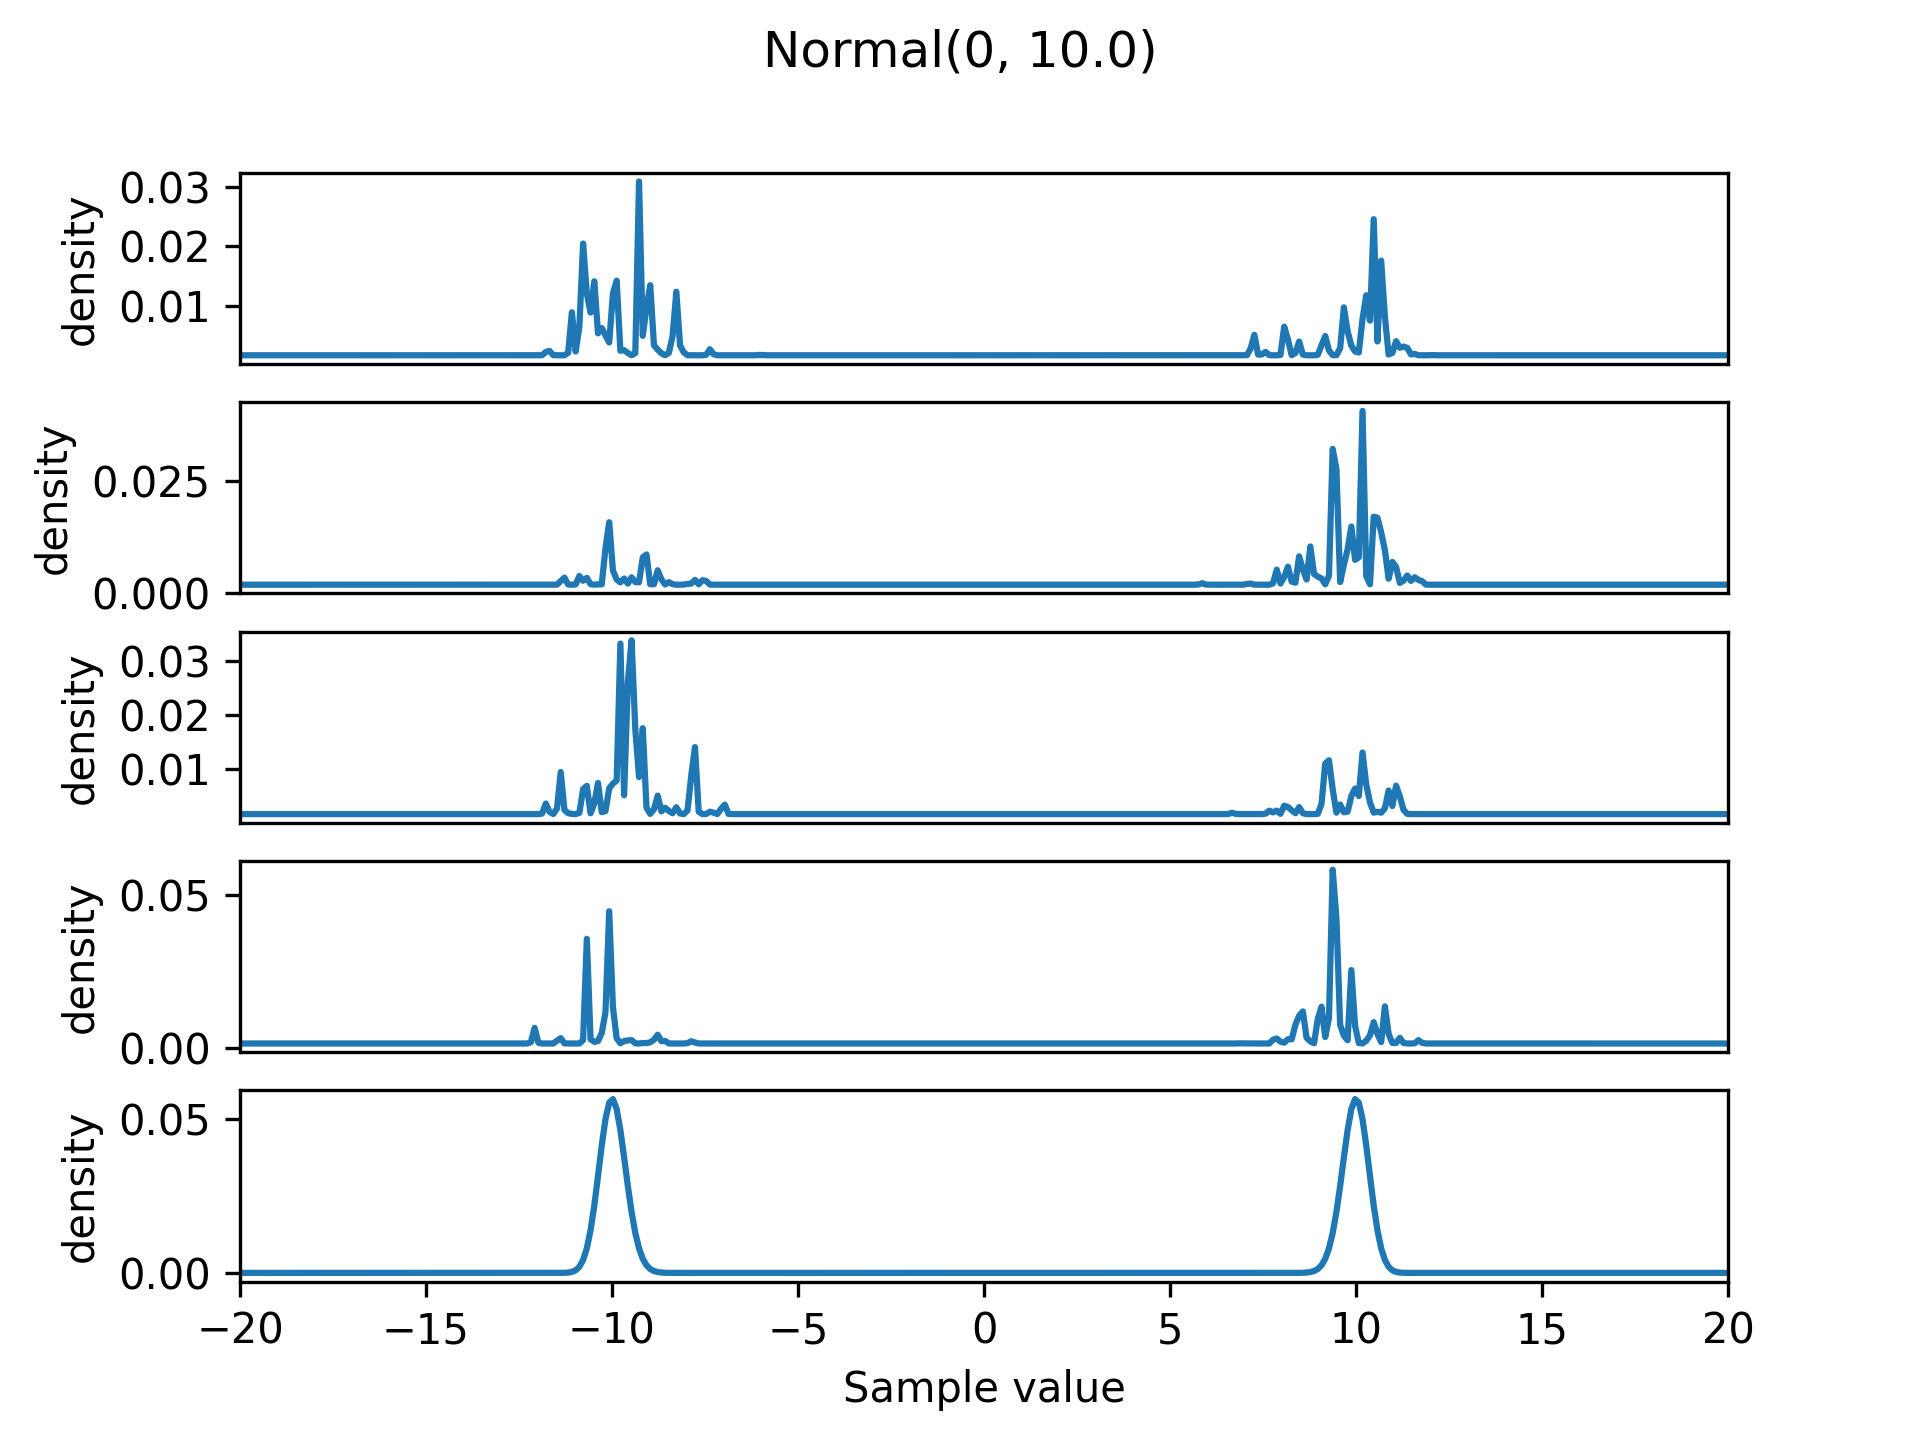
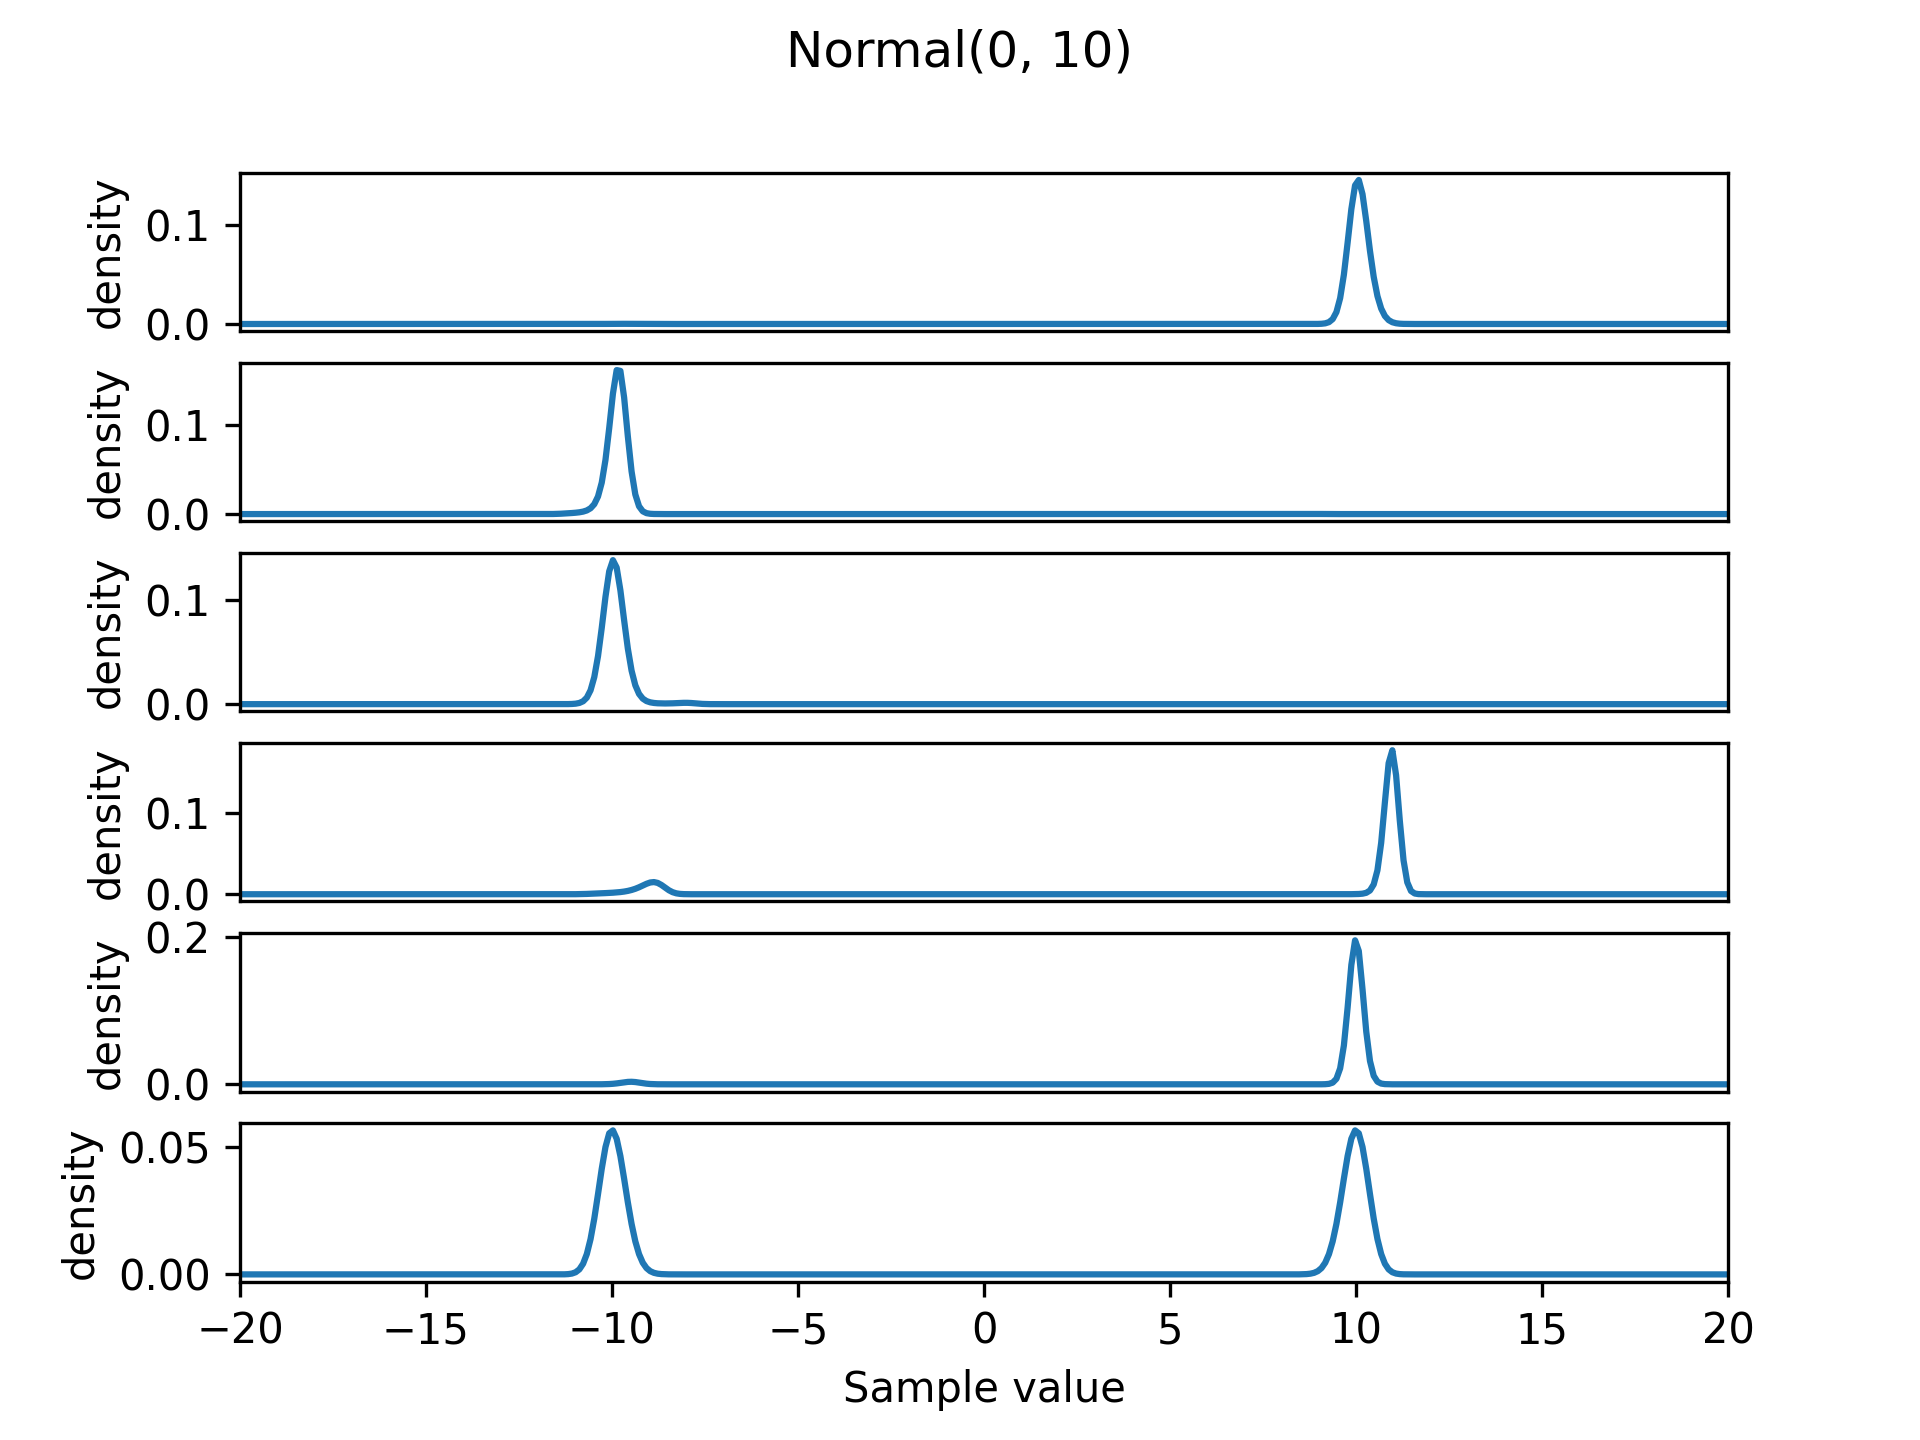
kernel

diff --git a/levy_mcmc.py b/levy_mcmc.py
@@ -6,13 +6,13 @@ from multiprocessing import Pool
 from matplotlib import pyplot as plt
 
 
-H_STEP = 0.0005
-DELTAT = 200.0
+H_STEP = 0.001
+DELTAT = 50.0
 
 
 def update_bias(histo, dist, x_dist, nb_el):
     for i in range(nb_el):
-        histo[i, :] += H_STEP * exp(-(x_dist - dist[i])**2/0.005) * exp(-histo[i, :]/DELTAT)
+        histo[i, :] += H_STEP * exp(-(x_dist - dist[i])**2/1.0) * exp(-histo[i, :]/DELTAT)
     return histo
 
 
@@ -36,7 +36,8 @@ def mcmc(nb_steps, nb_el, mut_prob):
         new_conf = old_conf + mut_prob(nb_el)
         new_prob = prob_func(new_conf)
         dist_n = [argmin((x_dist - el)**2) for el in new_conf]
-        new_b_prob = prob_func(array([histo[si, i] for si, i in enumerate(dist_n)]))
+        # new_b_prob = prob_func(array([histo[si, i] for si, i in enumerate(dist_n)]))
+        new_b_prob = exp(sum(histo[si, i] for si, i in enumerate(dist_n)))
 
         # if new_prob > old_prob or new_prob/old_prob >= uniform(0, 1):
         if new_prob * old_b_prob > old_prob * new_b_prob or (new_prob * old_b_prob)/(old_prob * new_b_prob) >= uniform(0, 1):
@@ -45,10 +46,11 @@ def mcmc(nb_steps, nb_el, mut_prob):
             acc += 1
         traj += [old_conf]
 
-        # if step % 10 == 0:
+        # IF step % 10 == 0:
         update_bias(histo, old_conf, x_dist, nb_el)
         dist_o = [argmin((x_dist - el)**2) for el in old_conf]
-        old_b_prob = prob_func(array([histo[si, i] for si, i in enumerate(dist_o)]))
+        # old_b_prob = prob_func(array([histo[si, i] for si, i in enumerate(dist_o)]))
+        old_b_prob = exp(sum(histo[si, i] for si, i in enumerate(dist_o)))
     return array(traj), histo, x_dist
 
 
@@ -72,7 +74,7 @@ def run_test(args):
 
 
 def main():
-    nb_el = 8
+    nb_el = 4
     # optim = True
     optim = False
 
@@ -82,7 +84,7 @@ def main():
     scale_val = 1.0
 
     # cauchy_b = False
-    # scale_val = 10
+    # scale_val = 20
 
     nb_steps = 100000
 
@@ -111,7 +113,7 @@ def main():
 
         for i in range(nb_el):
             pred_prob = exp(histo[i, :])/sum(exp(histo[i, :]))
-            print(pearsonr(pred_prob, true_prob))
+            # print(pearsonr(pred_prob, true_prob))
             dens_f[i].plot(x_dist, pred_prob)
             dens_f[i].set_ylabel("density")
             dens_f[i].set_xlim([-20, 20])
@@ -122,10 +124,6 @@ def main():
         dens_f[-1].set_xlim([-20, 20])
         dens_f[-1].set_xlabel("Sample value")
         dens_f[-1].set_ylabel("density")
-
-        # hist_f = fig.add_subplot(142)
-        # hist_f.hist(traj, bins=100)
-        # # plt.savefig("cauchy.png")
 
         plt.show()
 
